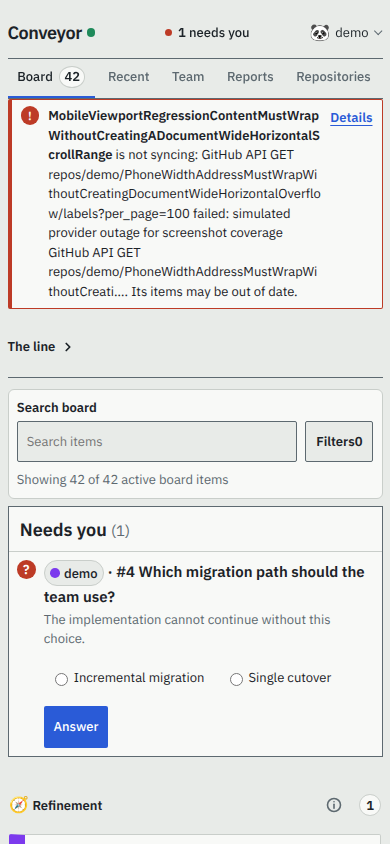
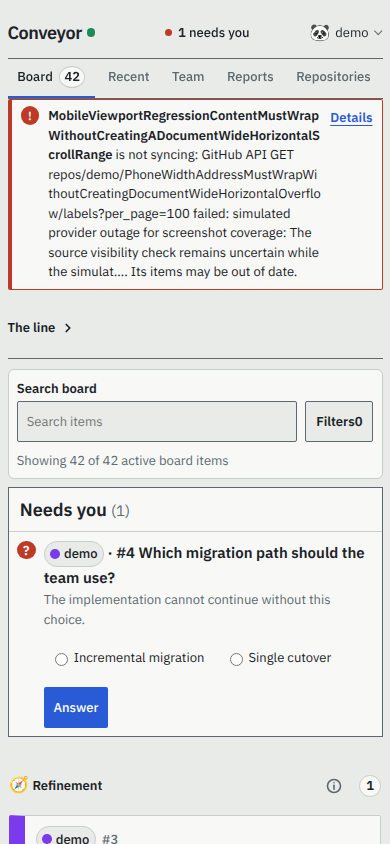
Fix trust safeguard review findings

diff --git a/scripts/regenerate-screenshots.ts b/scripts/regenerate-screenshots.ts
@@ -15,6 +15,7 @@ import { tmpdir } from "node:os";
 import path from "node:path";
 import { chromium, type Locator, type Page } from "playwright";
 import { ConveyorStore, type IssueProjection } from "../src/db/store";
+import { ReviewFindings } from "../src/engine/review-findings";
 
 const DEMO_USERNAME = "demo";
 const DEMO_PASSWORD = "demo-password-12chars";
@@ -25,6 +26,8 @@ const OUTPUT_DIRECTORY = path.join("docs", "screenshots");
 const PHONE_OVERFLOW_REPOSITORY = "MobileViewportRegressionContentMustWrapWithoutCreatingADocumentWideHorizontalScrollRange";
[1 lines of base64/hex data omitted]
 const DEGRADED_STATUS = "simulated provider outage for screenshot coverage";
+const PHONE_TRUST_WARNING = "The source visibility check remains uncertain while the simulated provider outage is investigated for this deliberately long phone-width status message.";
+const PHONE_TRUSTED_LOGIN = "phone-width-trusted-login-0000000000000";
 // This folder is rendered in the superuser Setup section. Keep its display value
 // independent of the host's temporary-directory configuration.
 const SCREENSHOT_WORKSPACE = "/tmp/conveyor-screenshot-workspace";
@@ -180,7 +183,7 @@ async function configureDemo(
       'case "$*" in',
       `  *\"/repos/demo/dashboard-demo/issues?state=all\"*) printf '%s\\n' '${sourceSnapshot}' ;;`,
       // Keep one configured repository visibly degraded without talking to a real provider.
-      `  *repos/${PHONE_OVERFLOW_ADDRESS}*) printf '%s\\n' '${DEGRADED_STATUS}' >&2; exit 1 ;;`,
+      `  *repos/${PHONE_OVERFLOW_ADDRESS}*) printf '%s\\n' '${DEGRADED_STATUS}: ${PHONE_TRUST_WARNING}' >&2; exit 1 ;;`,
       "  *\"--method POST\"*) printf '%s\\n' '{}' ;;",
       "  *) printf '%s\\n' '[]' ;;",
       "esac",
@@ -223,6 +226,7 @@ async function configureDemo(
       id: PHONE_OVERFLOW_REPOSITORY,
       address: PHONE_OVERFLOW_ADDRESS,
       ci: ["  provider: actions", "  mode: advisory"],
+      extraTrustedLogins: [PHONE_TRUSTED_LOGIN],
     },
   ];
   let config = await readFile(configPath, "utf8");
@@ -242,6 +246,9 @@ async function configureDemo(
         `folder: ${workspace}`,
         "baseBranch: main",
         "pipeline: delivery",
+        ...(repository.extraTrustedLogins
+          ? ["extraTrustedLogins:", ...repository.extraTrustedLogins.map((login) => `  - ${login}`)]
+          : []),
         "ci:",
         // The long repository shows a stored CI chip; the demo repository shows none.
         ...repository.ci,
@@ -329,6 +336,22 @@ async function seedDemo(home: string): Promise<void> {
       issues.push(issue(number, `Keep the long implementation board card ${number}`, "implementation"));
     }
     for (const entry of issues) store.upsertIssue(entry);
+    store.setRepositoryTrustStatus({
+      repositoryId: PHONE_OVERFLOW_REPOSITORY,
+      visibility: "unknown",
+      checkedAt: DEMO_TIME,
+      warning: PHONE_TRUST_WARNING,
+    });
+    new ReviewFindings(store.sqlite()).importNative(phoneOverflowIssue.id, [{
+      providerKey: "screenshot-ignored-review",
+      author: "untrusted-phone-reviewer",
+      trusted: false,
+      body: "This review text is intentionally absent from the dashboard screenshot.",
+      url: "https://example.com/reviews/screenshot-ignored-review",
+      path: null,
+      line: null,
+      resolved: false,
+    }], "demo-head", DEMO_TIME);
     // A CI chip carries visually hidden text. In a stage scrolled out of view at phone widths it
     // must not widen the document, which verifyPhoneLayouts checks.
     store.saveIndicator(
@@ -868,6 +891,15 @@ async function verifyPhoneLayouts(page: Page, baseUrl: string): Promise<void> {
         await expectReachableText(page, PHONE_OVERFLOW_ADDRESS);
         await expectReachableText(page, DEGRADED_STATUS);
         await expectReachableHealth(page, "Degraded");
+      }
+      if (name === "repository detail") {
+        await expectReachableText(page, "Public repository trust");
+        await expectReachableText(page, PHONE_TRUSTED_LOGIN);
+        await expectReachableText(page, PHONE_TRUST_WARNING);
+        await expectReachableElement(
+          page.locator(`a[href="/issues/${encodeURIComponent(PHONE_OVERFLOW_REPOSITORY)}/6/journey"]`),
+          "Ignored review history",
+        );
       }
       if (name === "board") {
         // On a phone the board lists its stages top to bottom: nothing scrolls sideways, and every stage

diff --git a/tests/cli/doctor-repository-trust.test.ts b/tests/cli/doctor-repository-trust.test.ts
@@ -6,12 +6,17 @@ import { GitHubAdapter, type GitHubTransport, type GitHubTransportRequest } from
 
 const config = (repositories: Record<string, unknown>) => ({ repositories }) as unknown as ConveyorConfig;
 
-function adapter(visibility: unknown) {
+function adapter(visibility: unknown, permission: unknown = "admin") {
   const transport: GitHubTransport = {
     async request<T>(request: GitHubTransportRequest): Promise<T> {
-      expect(request).toEqual({ method: "GET", path: "repos/owner/my-app" });
-      if (visibility instanceof Error) throw visibility;
-      return visibility as T;
+      if (request.path === "repos/owner/my-app") {
+        expect(request).toEqual({ method: "GET", path: "repos/owner/my-app" });
+        if (visibility instanceof Error) throw visibility;
+        return visibility as T;
+      }
+      expect(request).toEqual({ method: "GET", path: "repos/owner/my-app/collaborators/owner/permission" });
+      if (permission instanceof Error) throw permission;
+      return { permission } as T;
     },
   };
   return new GitHubAdapter(transport, "conveyor");
@@ -35,6 +40,7 @@ describe("doctor repository trust checks", () => {
     expect(detail).toContain("native review findings");
     expect(detail).toContain("post-enrollment issue title and body edits");
     expect(detail).toContain("enrollment labels");
+    expect(detail).toContain("author-permission lookups are available");
   });
 
   test("reports private repositories without claiming public-source protection is active", async () => {
@@ -68,5 +74,19 @@ describe("doctor repository trust checks", () => {
       detail: expect.stringContaining("GitHub is unavailable"),
     })]);
     expect(checks[0]!.detail).toContain("cannot determine whether owner/my-app is public");
+  });
+
+  test("warns when GitHub cannot confirm author-permission lookups for a public repository", async () => {
+    const checks = await repositoryTrustChecks(
+      config({ app: { address: "owner/my-app" } }),
+      adapter({ private: false }, new Error("permission endpoint is unavailable")),
+    );
+
+    expect(checks).toEqual([expect.objectContaining({
+      status: "warn",
+      detail: expect.stringContaining("author-permission lookups cannot be confirmed"),
+      fix: expect.stringContaining("collaborator permissions"),
+    })]);
+    expect(checks[0]!.detail).toContain("permission endpoint is unavailable");
   });
 });

diff --git a/src/cli/commands/doctor.ts b/src/cli/commands/doctor.ts
@@ -166,7 +166,7 @@ export async function doctorChecks(
  */
 export async function repositoryTrustChecks(
   config: ConveyorConfig,
-  adapter: Pick<GitHubAdapter, "repositoryVisibility"> | null,
+  adapter: Pick<GitHubAdapter, "repositoryVisibility" | "collaboratorPermission"> | null,
 ): Promise<DoctorCheck[]> {
   const checks: DoctorCheck[] = [];
   for (const [id, repository] of Object.entries(config.repositories)) {
@@ -183,9 +183,24 @@ export async function repositoryTrustChecks(
     }
     try {
       const visibility = await adapter.repositoryVisibility(repository.address);
-      checks.push(visibility === "public"
-        ? { name: `repository trust ${id}`, status: "ok", detail: `This repository is public. ${policy}` }
-        : { name: `repository trust ${id}`, status: "ok", detail: `This repository is private; the public-source status is not required. ${policy}` });
+      if (visibility !== "public") {
+        checks.push({ name: `repository trust ${id}`, status: "ok", detail: `This repository is private; the public-source status is not required. ${policy}` });
+        continue;
+      }
+      // Probe the same GitHub endpoint the trust policy uses. The repository owner is a stable
+      // login for this purpose; the result is not itself a trust decision for future authors.
+      const owner = repository.address.split("/")[0]!;
+      try {
+        await adapter.collaboratorPermission(repository.address, owner);
+        checks.push({ name: `repository trust ${id}`, status: "ok", detail: `This repository is public and GitHub author-permission lookups are available. ${policy}` });
+      } catch (error) {
+        checks.push({
+          name: `repository trust ${id}`,
+          status: "warn",
+          detail: `This repository is public, but GitHub author-permission lookups cannot be confirmed: ${error instanceof Error ? error.message : String(error)}. ${policy}`,
+          fix: `check GitHub access to collaborator permissions for ${repository.address}, then run conveyor doctor`,
+        });
+      }
     } catch (error) {
       checks.push({
         name: `repository trust ${id}`,

diff --git a/src/app/repository-summary.ts b/src/app/repository-summary.ts
@@ -150,8 +150,11 @@ export function buildRepositorySummaries(input: BuildRepositorySummariesInput): 
   const activeIssueIds = new Set(activeRuns.map((run) => run.issueId));
   const questionIssueIds = new Set(store.listOpenQuestions().map((question) => question.issueId));
   const issuesByRepository = new Map<string, StoredIssue[]>();
+  const allIssuesByRepository = new Map<string, StoredIssue[]>();
   for (const issue of input.issues ?? store.listIssues()) {
-    if (!config.repositories[issue.repositoryId] || issue.projectedState === "offboarded") continue;
+    if (!config.repositories[issue.repositoryId]) continue;
+    allIssuesByRepository.set(issue.repositoryId, [...(allIssuesByRepository.get(issue.repositoryId) ?? []), issue]);
+    if (issue.projectedState === "offboarded") continue;
     issuesByRepository.set(issue.repositoryId, [...(issuesByRepository.get(issue.repositoryId) ?? []), issue]);
   }
   const recordedDeliveries = deliveryRows(store);
@@ -162,6 +165,7 @@ export function buildRepositorySummaries(input: BuildRepositorySummariesInput): 
 
   const repositories = Object.entries(config.repositories).map(([id, repository], index) => {
     const issues = issuesByRepository.get(id) ?? [];
+    const issuesWithHistory = allIssuesByRepository.get(id) ?? [];
     const nonDone = issues.filter(isActiveWork);
     const doneIssueIds = new Set(issues.filter(isDone).map((issue) => issue.id));
     const stages = config.pipelines[repository.pipeline]?.stages ?? [];
@@ -202,7 +206,7 @@ export function buildRepositorySummaries(input: BuildRepositorySummariesInput): 
         .filter((delivery) => delivery.repository_id === id && doneIssueIds.has(delivery.issue_id))
         .slice(0, 10)
         .map((delivery) => ({ number: delivery.source_number, title: delivery.title, deliveredAt: delivery.delivered_at })),
-      skippedReviewItems: issues.flatMap((issue) => {
+      skippedReviewItems: issuesWithHistory.flatMap((issue) => {
         const count = reviewFindings.skippedNative(issue.id).length;
         return count === 0 ? [] : [{ number: issue.sourceNumber, title: issue.title, count }];
       }),

diff --git a/src/app/service.ts b/src/app/service.ts
@@ -500,6 +500,8 @@ export class ConveyorService {
         const message = error instanceof Error ? error.message : String(error);
         this.#repositoryErrors.set(id, message);
         log.error("Repository reconciliation failed", { repository: id }, error);
+      } finally {
+        await this.recordRepositoryTrustStatus(id, repository.address);
       }
     }
     this.#lastReconciledAt = new Date().toISOString();
@@ -3618,7 +3620,7 @@ export class ConveyorService {
 
   issueJourney(issueId: string): IssueJourneyViewModel | null {
     const issue = this.store.getIssue(issueId);
-    if (!issue || issue.projectedState === "offboarded") return null;
+    if (!issue) return null;
     const repository = this.config.repositories[issue.repositoryId]
       ?? Object.values(this.config.repositories).find((candidate) =>
         candidate.address === issue.repositoryId
@@ -4034,7 +4036,7 @@ export class ConveyorService {
   }
 
   webDependencies(auth: WebAuthApi, username: string, push: PushConfiguration | null = null): WebHandlerDependencies {
-    const githubSource = Object.values(this.config.sources).find((source) => source.type === "github");
+    const githubSource = Object.values(this.config.sources ?? {}).find((source) => source.type === "github");
     return {
       auth,
       username,
@@ -4081,7 +4083,7 @@ export class ConveyorService {
         const issue = "id" in reference
           ? this.store.getIssue(reference.id)
           : this.store.listIssues(reference.repository).find((candidate) => candidate.sourceNumber === reference.number) ?? null;
-        if (!issue || issue.projectedState === "offboarded") return null;
+        if (!issue) return null;
         return { id: issue.id, repository: issue.repositoryId, number: issue.sourceNumber };
       },
       postIssueMessage: (issueId, message, actor) => this.postIssueMessage(issueId, message, actor),

diff --git a/tests/app/service-issue-metadata.test.ts b/tests/app/service-issue-metadata.test.ts
@@ -54,7 +54,7 @@ repositories:
     type: "Bug" as string | null | undefined,
     fields: { Effort: "Low", "Target date": "2026-11-01" } as Record<string, string>,
     second: null as null | { fields: Record<string, string>; updatedAt: string },
-    fieldReads: 0, fail: false, failedNumbers: new Set<number>(), updatedAt: "2026-01-01T00:00:00Z",
+    fieldReads: 0, visibilityReads: 0, visibility: "private" as "public" | "private", fail: false, failedNumbers: new Set<number>(), updatedAt: "2026-01-01T00:00:00Z",
   };
   const github = {
     async listIssues() {
@@ -67,6 +67,10 @@ repositories:
         updatedAt: source.second.updatedAt, type: "Task",
       });
       return issues;
+    },
+    async repositoryVisibility() {
+      source.visibilityReads += 1;
+      return source.visibility;
     },
     async getIssueProvenance() {
       return { enrollment: { login: "maintainer" }, title: { login: "maintainer" }, body: { login: "maintainer" } };
@@ -91,6 +95,17 @@ test("the dashboard shows the issue type and only the repository-configured fiel
   const { service, card, store } = await setup();
   await service.reconcileAll();
   expect(card()).toMatchObject({ issueType: "Bug", issueFields: [{ name: "Effort", value: "Low" }] });
+  store.close();
+});
+
+test("reconciliation refreshes the repository visibility projection", async () => {
+  const { service, store, source } = await setup();
+  await service.reconcileAll();
+  source.visibility = "public";
+  await service.reconcileAll();
+
+  expect(source.visibilityReads).toBe(2);
+  expect(store.repositoryTrustStatus("repo")).toMatchObject({ visibility: "public", warning: null });
   store.close();
 });
 

diff --git a/tests/app/dashboard.test.ts b/tests/app/dashboard.test.ts
@@ -2036,6 +2036,30 @@ describe("ConveyorService dashboard", () => {
       }],
     });
     expect(JSON.stringify(service.issueJourney("github:owner/repo#31"))).not.toContain("Never expose this skipped review body");
+    store.setIssueProjection("github:owner/repo#31", {
+      stage: null,
+      state: "offboarded",
+      warning: null,
+    });
+    const repositoryDetail = service.dashboard("csrf", {
+      view: "repository",
+      repositoryId: "repo",
+      column: null,
+      page: 1,
+      doneLimit: 20,
+      runId: null,
+      issueId: null,
+    }).repositories.find((repository) => repository.id === "repo");
+    expect(repositoryDetail?.skippedReviewItems).toContainEqual({
+      number: 31,
+      title: "Waiting for CI",
+      count: 1,
+    });
+    expect(service.issueJourney("github:owner/repo#31")).toMatchObject({
+      skippedReviews: [{ author: "outside-reviewer", url: "https://example.com/reviews/1" }],
+    });
+    expect(await service.webDependencies({} as never, "operator").getIssueRoute({ repository: "repo", number: 31 }))
+      .toEqual({ id: "github:owner/repo#31", repository: "repo", number: 31 });
     expect(dashboard.repositories.find((repository) => repository.id === "repo")?.trust).toEqual({
       visibility: "public",
       checkedAt: "2026-09-29T03:00:00Z",

diff --git a/tests/web/render.test.ts b/tests/web/render.test.ts
@@ -694,8 +694,6 @@ describe("renderDashboard", () => {
     expect(reader).not.toContain('<img src=x onerror=alert(1)>');
     expect(reader).toContain('href="/issues/space%2Fname/7/journey"');
     expect(reader).toContain("Ignored native reviews");
-    expect(dashboardCss).toContain(".repository-trust-list");
-    expect(dashboardCss).toContain(".repository-detail,.repository-detail>section,.repository-detail-header{min-width:0}");
     expect(reader).not.toContain("/sentinel/local-folder");
     expect(reader).not.toContain("sentinel.egress.example");
     const superuser = renderDashboard({ ...base, account: { id: "admin", username: "admin", role: "superuser", avatar: "🦊" } });

diff --git a/tests/app/service-shutdown.test.ts b/tests/app/service-shutdown.test.ts
@@ -53,6 +53,7 @@ describe("ConveyorService shutdown", () => {
     const listing = new Promise<void>((resolve) => { release = resolve; });
     let listed = 0;
     const github = {
+      async repositoryVisibility() { return "private" as const; },
       async listIssues() { listed += 1; await listing; return []; },
       async listSubIssues() { return []; },
       async listDependencies() { return []; },
